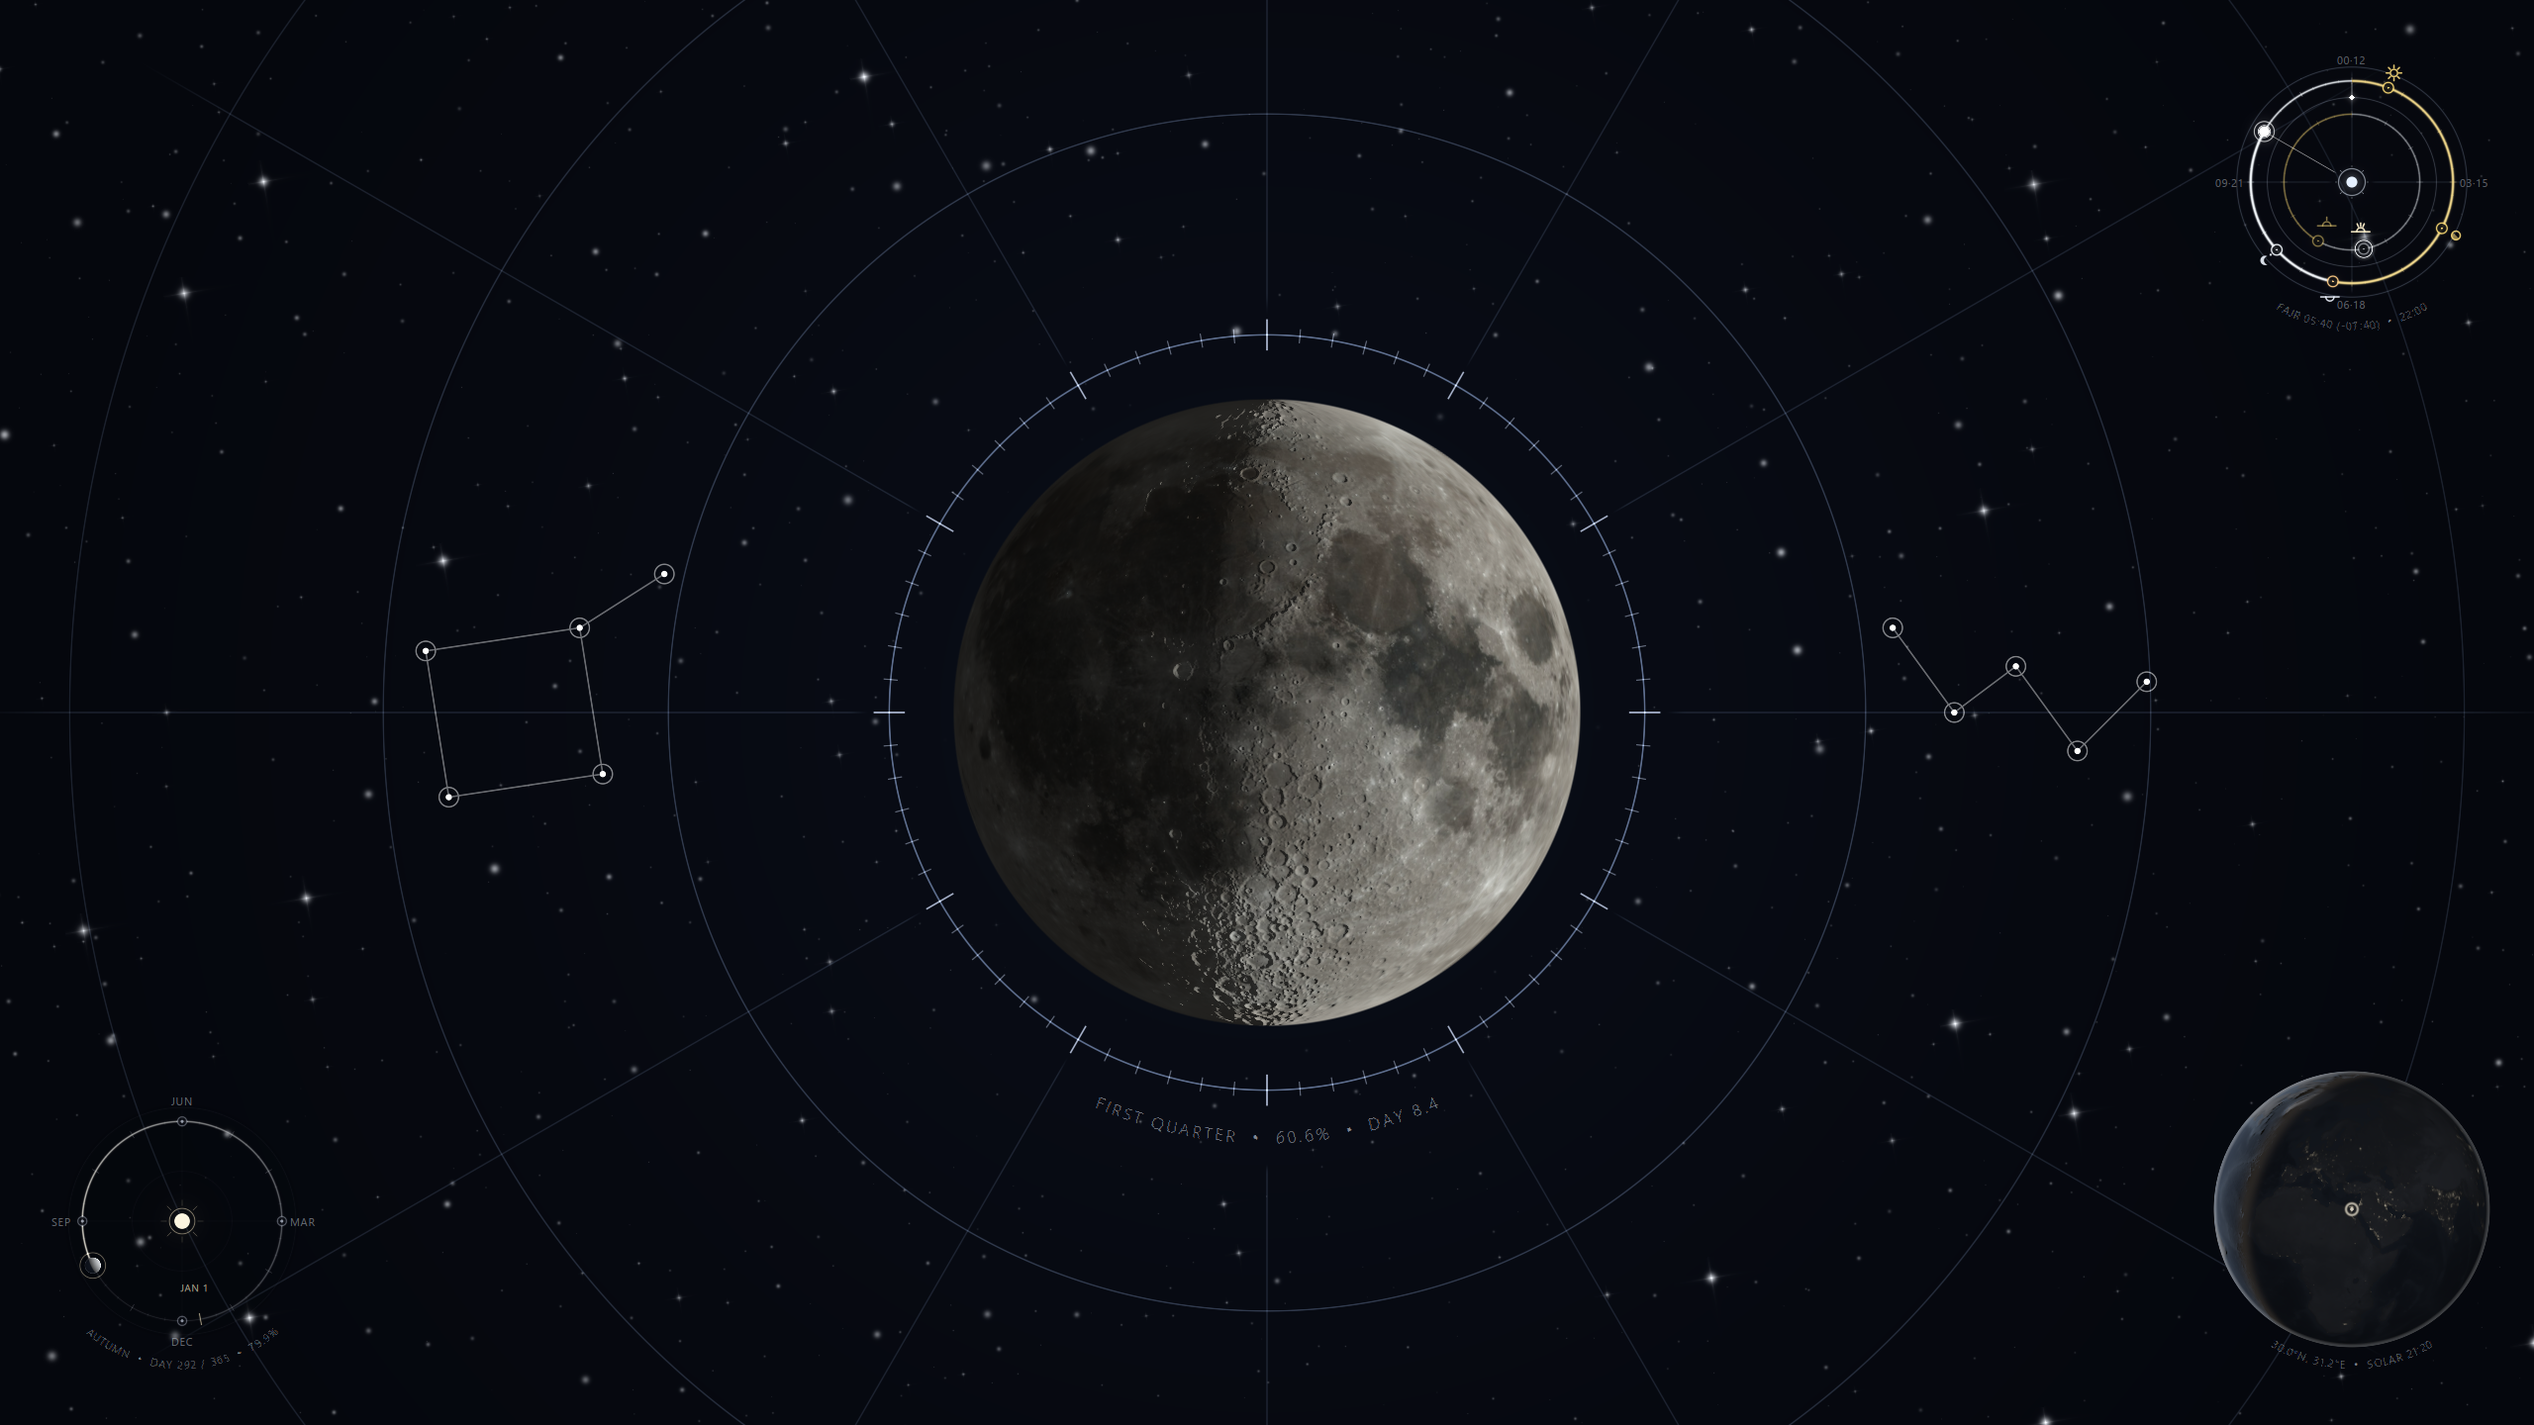
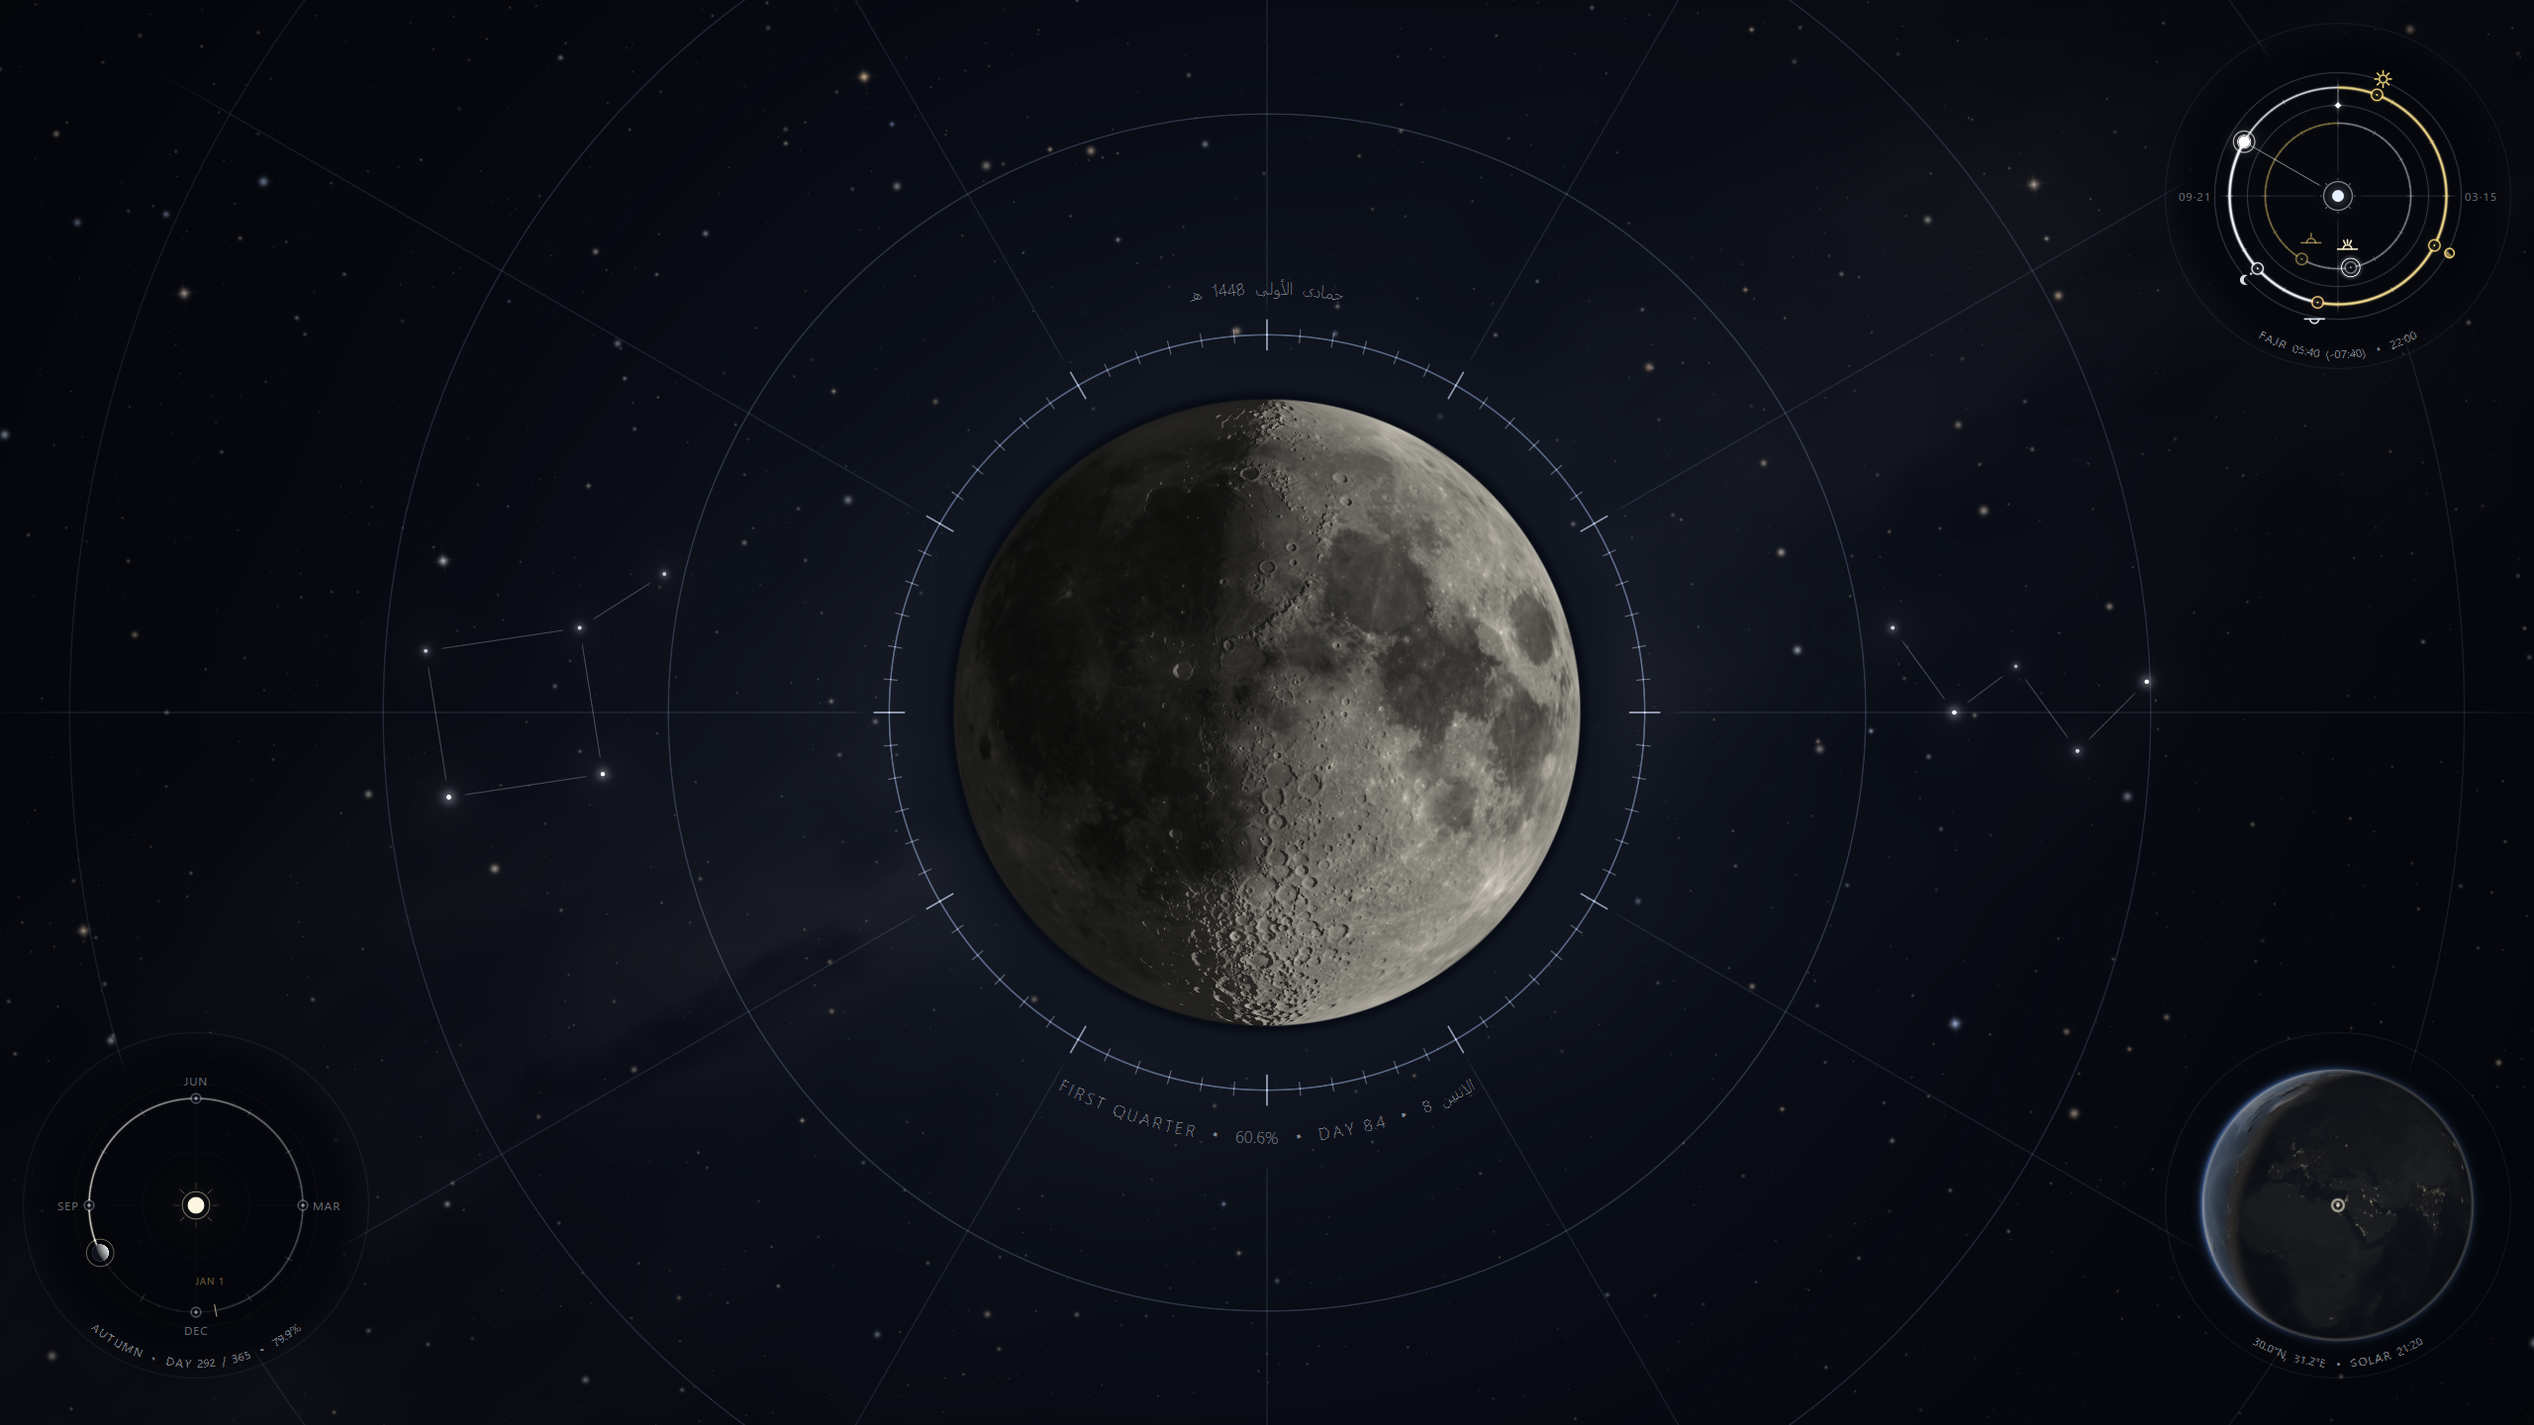
docs(readme): regenerate showcase screenshots and document the visual polish
- Add `make screenshots` (render_layouts.qml --screenshots plus
  scripts/crop_screenshots.py) so README images are reproducible.
- Regenerate the 2560x1440 frames and instrument close-ups.
- Describe the star-atlas sky, Moon-relative framing, Earth atmosphere,
  new background sliders and style.js.

diff --git a/tests/render_layouts.qml b/tests/render_layouts.qml
@@ -13,6 +13,9 @@
     Run:
         xvfb-run -a -s "-screen 0 3840x2160x24" \
             env QSG_RHI_BACKEND=opengl qml6 tests/render_layouts.qml
+
+    Pass `-- --screenshots` to render the README showcase frames (2560x1440)
+    into /tmp/opencode/screenshots instead; see `make screenshots`.
 */
 
 import QtQuick
@@ -33,14 +36,26 @@ Window {
     color: "#05070d"
     title: "Moon Phase - layout QA"
 
-    readonly property string outputDir: "file:///tmp/opencode/layouts/"
+    readonly property bool screenshotMode: Qt.application.arguments.indexOf("--screenshots") >= 0
+    readonly property string outputDir: window.screenshotMode
+                                        ? "file:///tmp/opencode/screenshots/"
+                                        : "file:///tmp/opencode/layouts/"
     readonly property real observerLat: 30.0
     readonly property real observerLon: 31.2
     readonly property date sceneDate: new Date(Date.UTC(2026, 9, 19, 19, 0, 0))
 
     // w, h: screen; moon: MoonScale; size/margin: corner widgets;
     // o/e/p: orbit/earth/prayer enabled; t: captions; style: background style.
-    readonly property var configs: [
+    // README showcase frames (docs/screenshots), all at 2560x1440.
+    readonly property var screenshotConfigs: [
+        { "file": "hero_combined_2k.png",        "w": 2560, "h": 1440, "moon": 0.45, "size": 300, "margin": 48, "o": true,  "e": true,  "p": true,  "t": true,  "style": 2 },
+        { "file": "bg_planisphere_2k.png",       "w": 2560, "h": 1440, "moon": 0.45, "size": 300, "margin": 48, "o": true,  "e": true,  "p": true,  "t": true,  "style": 0 },
+        { "file": "bg_astrolabe_2k.png",         "w": 2560, "h": 1440, "moon": 0.45, "size": 300, "margin": 48, "o": true,  "e": true,  "p": true,  "t": true,  "style": 1 },
+        { "file": "minimal_moon_only_2k.png",    "w": 2560, "h": 1440, "moon": 0.45, "size": 300, "margin": 48, "o": false, "e": false, "p": false, "t": true,  "style": 0 },
+        { "file": "clean_no_telemetry_2k.png",   "w": 2560, "h": 1440, "moon": 0.45, "size": 300, "margin": 48, "o": true,  "e": true,  "p": true,  "t": false, "style": 0 }
+    ]
+
+    readonly property var layoutConfigs: [
         { "file": "01_1080p_default.png",        "w": 1920, "h": 1080, "moon": 0.45, "size": 230, "margin": 36, "o": true,  "e": true,  "p": true,  "t": true,  "style": 0 },
         { "file": "02_1080p_small_tight.png",    "w": 1920, "h": 1080, "moon": 0.45, "size": 140, "margin": 16, "o": true,  "e": true,  "p": true,  "t": true,  "style": 0 },
         { "file": "03_1080p_large_loose.png",    "w": 1920, "h": 1080, "moon": 0.45, "size": 400, "margin": 96, "o": true,  "e": true,  "p": true,  "t": true,  "style": 0 },
@@ -54,6 +69,8 @@ Window {
         { "file": "11_no_widgets.png",           "w": 1920, "h": 1080, "moon": 0.45, "size": 230, "margin": 36, "o": false, "e": false, "p": false, "t": true,  "style": 0 },
         { "file": "12_portrait.png",             "w": 1080, "h": 1920, "moon": 0.45, "size": 230, "margin": 36, "o": true,  "e": true,  "p": true,  "t": true,  "style": 0 }
     ]
+
+    readonly property var configs: window.screenshotMode ? window.screenshotConfigs : window.layoutConfigs
 
     property int index: 0
     property var cfg: window.configs[0]

diff --git a/scripts/crop_screenshots.py b/scripts/crop_screenshots.py
@@ -1,0 +1,60 @@
+#!/usr/bin/env python3
+# SPDX-FileCopyrightText: 2026 Hadi Alahmad <hade.alahmad1@gmail.com>
+# SPDX-License-Identifier: GPL-2.0-or-later
+"""Copy the rendered README frames and cut the instrument close-ups.
+
+Geometry mirrors the screenshot configs in tests/render_layouts.qml:
+2560x1440 frame, Moon scale 0.45, corner widgets 300 px with a 48 px margin.
+Usage: crop_screenshots.py <render dir> <docs/screenshots dir>
+"""
+import shutil
+import sys
+from pathlib import Path
+
+from PIL import Image
+
+W, H = 2560, 1440
+SIZE, MARGIN = 300, 48
+MOON = 0.45 * min(W, H)
+
+FRAMES = [
+    "hero_combined_2k.png",
+    "bg_planisphere_2k.png",
+    "bg_astrolabe_2k.png",
+    "minimal_moon_only_2k.png",
+    "clean_no_telemetry_2k.png",
+]
+
+
+def dial_box(cx, cy, half_w, half_h):
+    return (round(cx - half_w), round(cy - half_h), round(cx + half_w), round(cy + half_h))
+
+
+def main(src: Path, dst: Path) -> None:
+    dst.mkdir(parents=True, exist_ok=True)
+    for name in FRAMES:
+        shutil.copyfile(src / name, dst / name)
+
+    hero = Image.open(src / "bg_planisphere_2k.png").convert("RGB")
+    half = SIZE * 0.62
+
+    # Dial centres: each widget's shader square sits at the top of its item.
+    prayer = (W - MARGIN - SIZE / 2, MARGIN + SIZE / 2)
+    orbit = (MARGIN + SIZE / 2, H - MARGIN - SIZE * 1.08 + SIZE / 2)
+    earth = (W - MARGIN - SIZE / 2, H - MARGIN - SIZE * 1.08 + SIZE / 2)
+
+    crops = {
+        "closeup_prayer_clock.png": (dial_box(*prayer, half, half), (364, 364)),
+        "closeup_orbit.png": (dial_box(*orbit, half, half), (364, 364)),
+        "closeup_earth.png": (dial_box(*earth, half, half * 374 / 364), (364, 374)),
+    }
+    moon_half = MOON * 0.74
+    crops["closeup_moon.png"] = (dial_box(W / 2, H / 2, moon_half, moon_half), (960, 960))
+
+    for name, (box, size) in crops.items():
+        hero.crop(box).resize(size, Image.LANCZOS).save(dst / name)
+        print(f"{name}: {box} -> {size}")
+
+
+if __name__ == "__main__":
+    main(Path(sys.argv[1]), Path(sys.argv[2]))

diff --git a/README.md b/README.md
@@ -30,6 +30,8 @@ A live, physically based astronomical desktop wallpaper for **KDE Plasma 6** (`i
 
 - **Razor-Sharp Screen-Space Anti-Aliased Geometry:** Uses `fwidth(r)` screen-space derivatives (`crispStroke`) for 1-pixel anti-aliased concentric coordinate rings, 72/120-tick lunar bezel graduation marks, and constellation lines with zero Gaussian blur.
 - **Smart FBO Caching:** Caches the full-screen backdrop in an offscreen FBO (`layer.enabled: root.shaderActive && !root.animate`) only when static, and renders directly to the scene graph without allocating a 15–33 MB full-screen FBO when animated.
+- **Star-Atlas Sky:** Constellations are drawn as magnitude-weighted stars joined by hairlines that stop short of each star; the starfield is tinted by colour temperature and crossed by a faint Milky Way band with dust lanes. A phase-scaled lunar halo and a gentle vignette keep the eye on the Moon, and the sky is quietened behind each enabled corner instrument.
+- **Moon-Relative Framing:** The bezel, graduation ticks and caption keepouts scale with the configured Moon size (and screen orientation), so small, large and portrait layouts keep the same proportions.
 - **Mid-Vertical Constellation Placement:** Seasonal zodiac and major constellations (Orion, Cygnus, Cassiopeia, Leo) are scaled and positioned in the vertical mid-band (`y ∈ [0.36, 0.64]`) so they never collide with the corner instruments.
 - **Three User-Switchable Styles (`SeasonalBackgroundStyle`):**
 
@@ -59,7 +61,8 @@ A live, physically based astronomical desktop wallpaper for **KDE Plasma 6** (`i
 - **Real NASA GEBCO 08 Topography, Bathymetry & Black Marble Relief:**
   - `earth_normal.png` (`1024×512 RGB`) packs tangent-space surface normals (`RG`) computed from merged land elevation (`gebco_08_rev_elev`) and ocean floor bathymetry (`gebco_08_rev_bath`) together with nocturnal city-light luminance (`B`, `BlackMarble_2016`).
   - `earth_day.png` (`1024×512 RGBA`) encodes muted land/ocean albedo in `RGB` and continuous bathymetric depth (`[0.58..1.00]`) + land elevation (`[0.20..0.48]`) in `Alpha`.
-- **Physically Based Day/Night Shading & Curved Telemetry:** Uses the same Lommel-Seeliger + Lambertian diffuse model as the Moon, casting relief shadows across mountain ranges (Himalayas, Andes) and mid-ocean ridges near the solar terminator, plus warm nocturnal city lights, polar ice caps, an observer reticle pin, and a curved telemetry arc (`30.0°N, 31.2°E • SOLAR 21:04`) seated cleanly outside the globe's circumference (`r = 0.560 * width`).
+- **Physically Based Day/Night Shading & Curved Telemetry:** Uses the same Lommel-Seeliger + Lambertian diffuse model as the Moon, casting relief shadows across mountain ranges (Himalayas, Andes) and mid-ocean ridges near the solar terminator, plus warm nocturnal city lights, polar ice caps, an observer reticle pin, and a curved telemetry arc (`30.0°N, 31.2°E • SOLAR 21:04`) seated cleanly outside the globe's circumference (`r = 0.530 * width`, shared by all corner instruments via `style.js`).
+- **Atmospheric Limb:** The globe fills 92% of its square; the outer band carries a thin, sun-weighted blue atmosphere with a faint forward-scattering ring when the Sun is behind the Earth.
 
 #### Top-Right: Dual-Ring Analogue Prayer Times Astrolabe Clock (`PrayerClockWidget.qml` + `prayer_clock.frag` + `prayer.js`)
 - **Concentric 12-Hour Rings:**
@@ -96,7 +99,7 @@ A live, physically based astronomical desktop wallpaper for **KDE Plasma 6** (`i
 
 - **Your Location:** One-click **City Preset** dropdown (23 world cities across both hemispheres + `Custom Coordinates`) that automatically fills Latitude/Longitude and toggles Southern Hemisphere orientation when `Latitude < 0°`.
 - **Center Moon & Labels:** Percentage sliders for Moon size, Crater depth, and Dark-side glow, plus a single toggle for all curved info captions (`ShowTelemetryOverlay`).
-- **Background & Star Chart:** Unified style selector (`Star Chart`, `Seasonal Wireframe Etchings`, `Combined`, `Solid Color Only`) with progressive disclosure that hides inactive controls.
+- **Background & Star Chart:** Unified style selector (`Star Chart`, `Seasonal Wireframe Etchings`, `Combined`, `Solid Color Only`) with progressive disclosure that hides inactive controls, plus `Milky Way`, `Moon glow` and `Edge shading` strength sliders (0–200%).
 - **Corner Instruments:** Each instrument's sub-options are grouped directly under its toggle and automatically hide when that instrument is unchecked.
 - **Time-Travel Sandbox & Advanced:** Collapsible simulation mode with an inline warning banner, one-click `Return to Live Time` action, hemisphere-aware season readout, and dual `Local Solar · UTC` time readout.
 
@@ -116,7 +119,8 @@ kde-moonphase-wallpaper/
 │   ├── code/
 │   │   ├── astronomy.js                 # .pragma library: Meeus lunar & heliocentric Earth ephemeris
 │   │   ├── hijri.js                     # .pragma library: Umm al-Qura Hijri conversion + Arabic labels
-│   │   └── prayer.js                    # .pragma library: Solar-zenith prayer calculator + AlAdhan API cache
+│   │   ├── prayer.js                    # .pragma library: Solar-zenith prayer calculator + AlAdhan API cache
+│   │   └── style.js                     # .pragma library: Shared dial typography and Moon caption geometry
 │   ├── config/
 │   │   └── main.xml                     # KConfigXT schema for all user-configurable settings
 │   ├── images/
@@ -140,6 +144,7 @@ kde-moonphase-wallpaper/
 ├── scripts/
 │   ├── prepare_assets.py                # Downloads & bakes channel-packed NASA LRO Moon normal+albedo texture
 │   ├── prepare_earth_assets.py          # Downloads & bakes 1024×512 NASA BlueMarble/BlackMarble/GEBCO Earth maps
+│   ├── crop_screenshots.py              # Copies README frames and cuts instrument close-ups (`make screenshots`)
 │   └── earth_assets_provenance.txt      # SHA-256 provenance of all 5 NASA source datasets
 └── tests/
     ├── test_astronomy.mjs               # Node unit tests for lunar phase, libration, and syzygies (9 tests)
@@ -148,7 +153,8 @@ kde-moonphase-wallpaper/
     ├── test_prayer.mjs                  # Node unit tests for prayer zenith math & AlAdhan parser (13 tests)
     ├── shader_smoke.qml                 # Headless OpenGL smoke test for all 5 shaders + procedural maps
     ├── preview.qml                      # Headless renderer for the 4 principal lunar phases
-    └── render_full_wallpaper.qml        # Headless 1920×1080 renderer across all 4 seasons
+    ├── render_full_wallpaper.qml        # Headless 1920×1080 renderer across all 4 seasons
+    └── render_layouts.qml               # Headless layout matrix (sizes, Moon scales, widgets) + README frames
 ```
 
 ---
@@ -250,6 +256,9 @@ make preview-full
 # Render 12 layout variants (resolutions, Moon scales, corner sizes, enabled widgets)
 # into /tmp/opencode/layouts/
 make preview-layouts
+
+# Regenerate the README showcase images in docs/screenshots/
+make screenshots
 ```
 
 ### Publishing to the KDE Store
